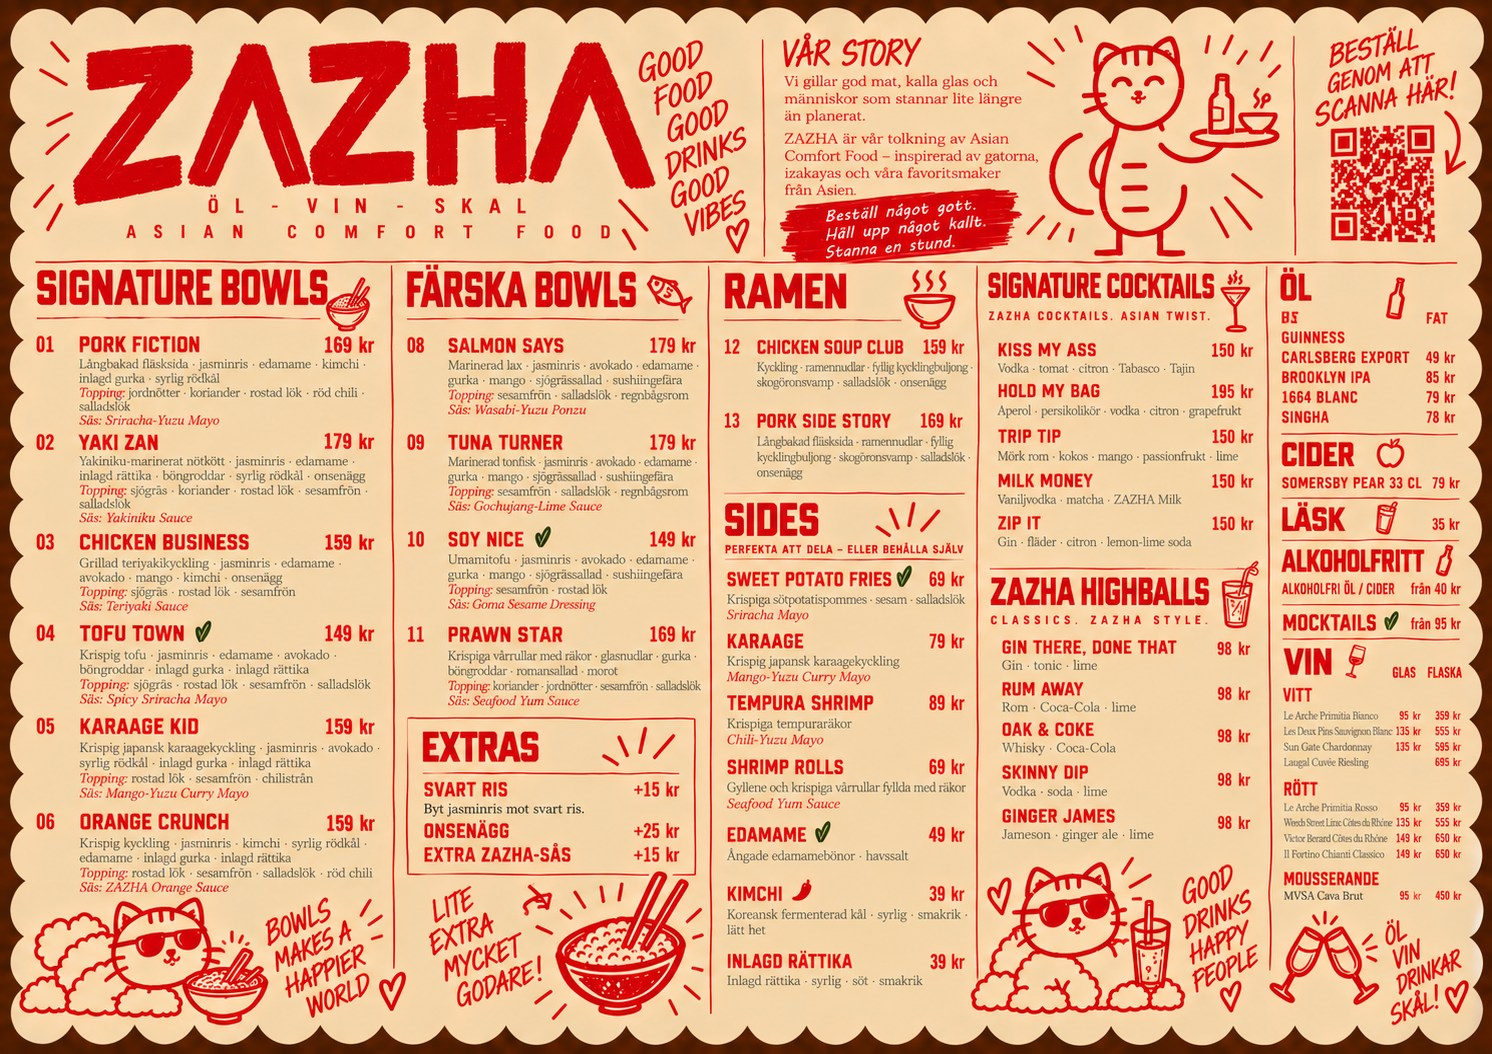
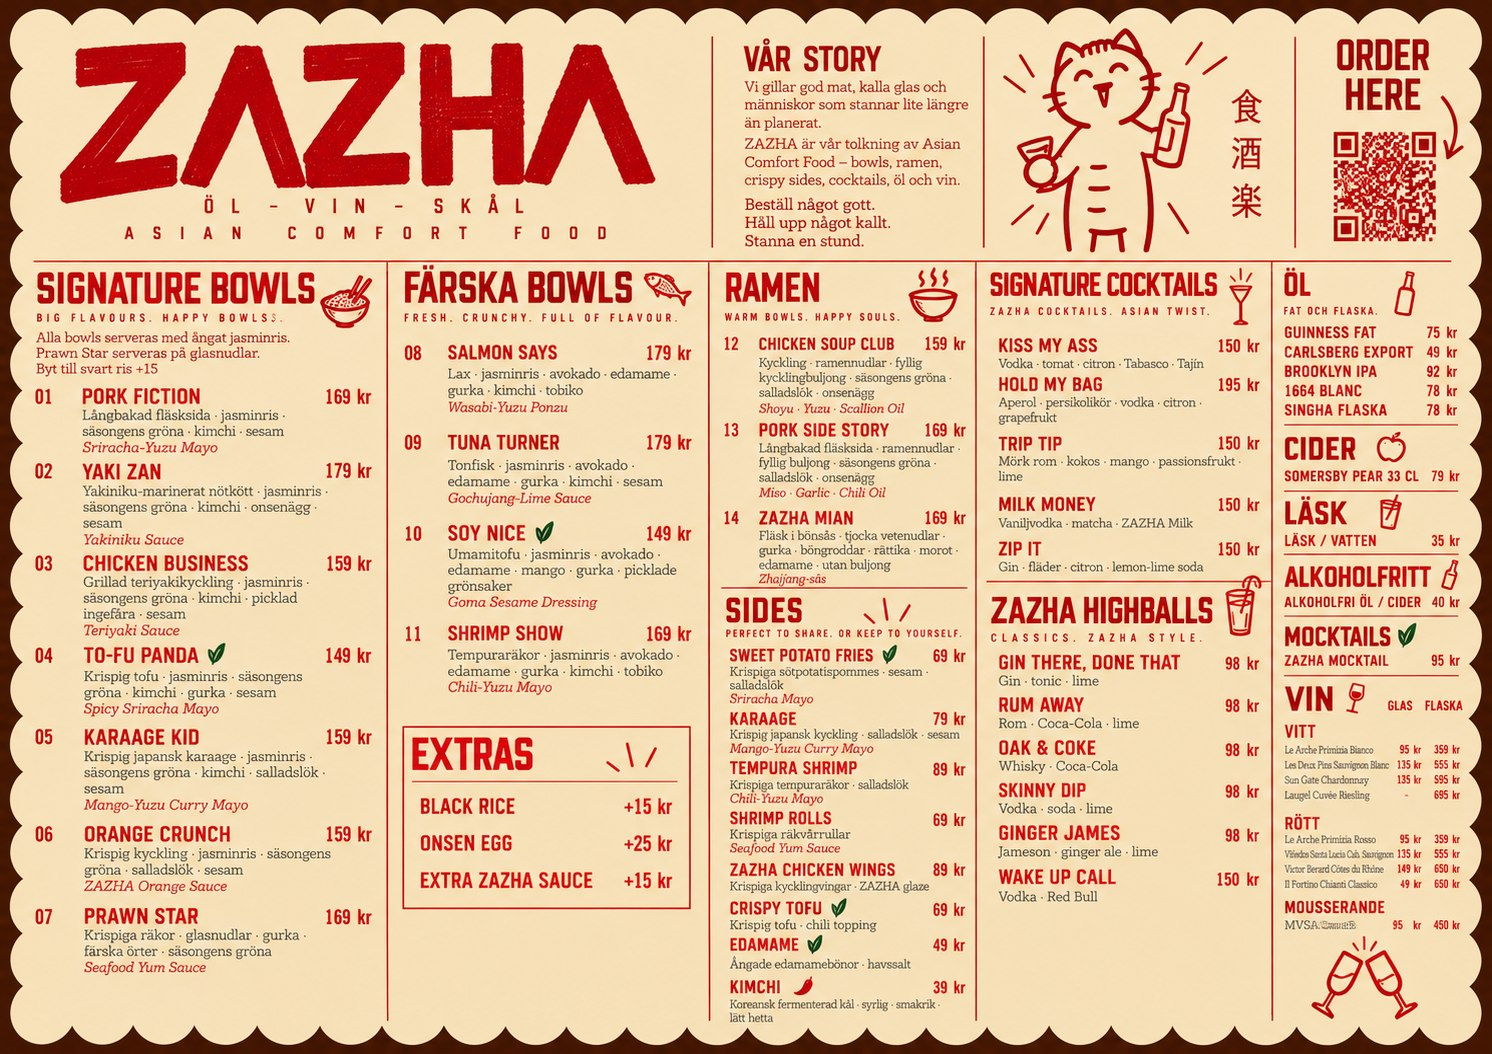
Uppdatera till den nya menyn överallt
Ny menybild (zazha-meny.jpg/webp) ersätter den gamla — syns på
startsidans menyförhandsvisning och i lightboxen på båda sidorna.

Uppdaterar den riktiga HTML-menyn på meny.html i enlighet med den nya
bilden:
- Bowls: Prawn Star flyttad till Signature Bowls (nu på glasnudlar),
  Tofu Town → To-Fu Panda, Shrimp Show ersätter gamla Prawn Star i
  Färska Bowls, numrering 01–11
- Ramen: nytt tillägg Zazha Mian (14)
- Sides: nya Zazha Chicken Wings och Crispy Tofu, Inlagd rättika borttagen
- Extras döpta om till engelska (Black Rice, Onsen Egg, Extra ZAZHA Sauce)
- Highballs: ny Wake Up Call (Vodka, Red Bull)
- Ölpriser uppdaterade (Brooklyn IPA 92 kr, 1664 Blanc 78 kr)
- Vin: Viñedos Santa Lucia Cab. Sauvignon ersätter Woods Street Line,
  Il Fortino Chianti Classico nu 49 kr (var 149 kr), "Laugal" rättat
  till "Laugel"
- Alkoholfritt/Mocktails-priser utan "från"-prefix

diff --git a/meny.html b/meny.html
@@ -573,53 +573,58 @@
       <!-- BOWLS -->
       <div class="meny-cat">
         <h3>Bowls</h3>
+        <p class="meny-item-desc" style="margin-bottom:16px;">Alla bowls serveras med ångat jasminris. Prawn Star serveras på glasnudlar. Byt till svart ris +15 kr.</p>
         <ul>
           <li class="meny-item">
-            <div class="meny-item-row"><span class="meny-item-name">Pork Fiction</span><span class="meny-item-price">169 kr</span></div>
-            <p class="meny-item-desc">Långbakad fläsksida, jasminris, edamame, kimchi, inlagd gurka, syrlig rödkål. Sås: Sriracha-Yuzu Mayo.</p>
+            <div class="meny-item-row"><span class="meny-item-name">01 · Pork Fiction</span><span class="meny-item-price">169 kr</span></div>
+            <p class="meny-item-desc">Långbakad fläsksida, jasminris, säsongens gröna, kimchi, sesam. Sriracha-Yuzu Mayo.</p>
           </li>
           <li class="meny-item">
-            <div class="meny-item-row"><span class="meny-item-name">Yaki Zan</span><span class="meny-item-price">179 kr</span></div>
-            <p class="meny-item-desc">Yakiniku-marinerat nötkött, jasminris, edamame, inlagd rättika, böngroddar, syrlig rödkål, onsenägg. Sås: Yakiniku Sauce.</p>
+            <div class="meny-item-row"><span class="meny-item-name">02 · Yaki Zan</span><span class="meny-item-price">179 kr</span></div>
+            <p class="meny-item-desc">Yakiniku-marinerat nötkött, jasminris, säsongens gröna, kimchi, onsenägg, sesam. Yakiniku Sauce.</p>
           </li>
           <li class="meny-item">
-            <div class="meny-item-row"><span class="meny-item-name">Chicken Business</span><span class="meny-item-price">159 kr</span></div>
-            <p class="meny-item-desc">Grillad teriyakikyckling, jasminris, edamame, avokado, mango, kimchi, onsenägg. Sås: Teriyaki Sauce.</p>
+            <div class="meny-item-row"><span class="meny-item-name">03 · Chicken Business</span><span class="meny-item-price">159 kr</span></div>
+            <p class="meny-item-desc">Grillad teriyakikyckling, jasminris, säsongens gröna, kimchi, picklad ingefära, sesam. Teriyaki Sauce.</p>
           </li>
           <li class="meny-item">
-            <div class="meny-item-row"><span class="meny-item-name">Tofu Town 🌱</span><span class="meny-item-price">149 kr</span></div>
-            <p class="meny-item-desc">Krispig tofu, jasminris, edamame, avokado, böngroddar, inlagd gurka, inlagd rättika. Sås: Spicy Sriracha Mayo.</p>
+            <div class="meny-item-row"><span class="meny-item-name">04 · To-Fu Panda 🌱</span><span class="meny-item-price">149 kr</span></div>
+            <p class="meny-item-desc">Krispig tofu, jasminris, säsongens gröna, kimchi, gurka, sesam. Spicy Sriracha Mayo.</p>
           </li>
           <li class="meny-item">
-            <div class="meny-item-row"><span class="meny-item-name">Karaage Kid</span><span class="meny-item-price">159 kr</span></div>
-            <p class="meny-item-desc">Krispig japansk karaagekyckling, jasminris, edamame, avokado, syrlig rödkål, inlagd gurka. Sås: Mango-Yuzu Curry Mayo.</p>
+            <div class="meny-item-row"><span class="meny-item-name">05 · Karaage Kid</span><span class="meny-item-price">159 kr</span></div>
+            <p class="meny-item-desc">Krispig japansk karaage, jasminris, säsongens gröna, kimchi, salladslök, sesam. Mango-Yuzu Curry Mayo.</p>
           </li>
           <li class="meny-item">
-            <div class="meny-item-row"><span class="meny-item-name">Orange Crunch</span><span class="meny-item-price">159 kr</span></div>
-            <p class="meny-item-desc">Krispig kyckling, jasminris, edamame, kimchi, syrlig rödkål, inlagd gurka. Sås: ZAZHA Orange Sauce.</p>
+            <div class="meny-item-row"><span class="meny-item-name">06 · Orange Crunch</span><span class="meny-item-price">159 kr</span></div>
+            <p class="meny-item-desc">Krispig kyckling, jasminris, säsongens gröna, salladslök, sesam. ZAZHA Orange Sauce.</p>
           </li>
           <li class="meny-item">
-            <div class="meny-item-row"><span class="meny-item-name">Salmon Says</span><span class="meny-item-price">179 kr</span></div>
-            <p class="meny-item-desc">Marinerad lax, jasminris, avokado, edamame, gurka, mango, sjögrässallad. Sås: Wasabi-Yuzu Ponzu.</p>
+            <div class="meny-item-row"><span class="meny-item-name">07 · Prawn Star</span><span class="meny-item-price">169 kr</span></div>
+            <p class="meny-item-desc">Krispiga räkor, glasnudlar, gurka, färska örter, säsongens gröna. Seafood Yum Sauce.</p>
           </li>
           <li class="meny-item">
-            <div class="meny-item-row"><span class="meny-item-name">Tuna Turner</span><span class="meny-item-price">179 kr</span></div>
-            <p class="meny-item-desc">Marinerad tonfisk, jasminris, avokado, edamame, gurka, mango, sjögrässallad. Sås: Gochujang-Lime Sauce.</p>
+            <div class="meny-item-row"><span class="meny-item-name">08 · Salmon Says</span><span class="meny-item-price">179 kr</span></div>
+            <p class="meny-item-desc">Lax, jasminris, avokado, edamame, gurka, kimchi, tobiko. Wasabi-Yuzu Ponzu.</p>
           </li>
           <li class="meny-item">
-            <div class="meny-item-row"><span class="meny-item-name">Soy Nice 🌱</span><span class="meny-item-price">149 kr</span></div>
-            <p class="meny-item-desc">Umamitofu, jasminris, avokado, edamame, gurka, mango, sjögrässallad. Sås: Goma Sesame Dressing.</p>
+            <div class="meny-item-row"><span class="meny-item-name">09 · Tuna Turner</span><span class="meny-item-price">179 kr</span></div>
+            <p class="meny-item-desc">Tonfisk, jasminris, avokado, edamame, gurka, kimchi, sesam. Gochujang-Lime Sauce.</p>
           </li>
           <li class="meny-item">
-            <div class="meny-item-row"><span class="meny-item-name">Prawn Star</span><span class="meny-item-price">169 kr</span></div>
-            <p class="meny-item-desc">Krispiga vårrullar med räkor, glasnudlar, gurka, böngroddar, romansallad. Sås: Seafood Yum Sauce.</p>
+            <div class="meny-item-row"><span class="meny-item-name">10 · Soy Nice 🌱</span><span class="meny-item-price">149 kr</span></div>
+            <p class="meny-item-desc">Umamitofu, jasminris, avokado, edamame, mango, gurka, picklade grönsaker. Goma Sesame Dressing.</p>
+          </li>
+          <li class="meny-item">
+            <div class="meny-item-row"><span class="meny-item-name">11 · Shrimp Show</span><span class="meny-item-price">169 kr</span></div>
+            <p class="meny-item-desc">Tempuraräkor, jasminris, avokado, edamame, gurka, kimchi, tobiko. Chili-Yuzu Mayo.</p>
           </li>
         </ul>
         <h4>Extras</h4>
         <ul>
-          <li class="meny-item"><div class="meny-item-row"><span class="meny-item-name">Svart ris</span><span class="meny-item-price">+15 kr</span></div></li>
-          <li class="meny-item"><div class="meny-item-row"><span class="meny-item-name">Onsenägg</span><span class="meny-item-price">+25 kr</span></div></li>
-          <li class="meny-item"><div class="meny-item-row"><span class="meny-item-name">Extra ZAZHA-sås</span><span class="meny-item-price">+15 kr</span></div></li>
+          <li class="meny-item"><div class="meny-item-row"><span class="meny-item-name">Black Rice</span><span class="meny-item-price">+15 kr</span></div></li>
+          <li class="meny-item"><div class="meny-item-row"><span class="meny-item-name">Onsen Egg</span><span class="meny-item-price">+25 kr</span></div></li>
+          <li class="meny-item"><div class="meny-item-row"><span class="meny-item-name">Extra ZAZHA Sauce</span><span class="meny-item-price">+15 kr</span></div></li>
         </ul>
       </div>
 
@@ -628,12 +633,16 @@
         <h3>Ramen</h3>
         <ul>
           <li class="meny-item">
-            <div class="meny-item-row"><span class="meny-item-name">Chicken Soup Club</span><span class="meny-item-price">159 kr</span></div>
-            <p class="meny-item-desc">Kyckling, ramennudlar, fyllig kycklingbuljong, skogssvamp, salladslök, onsenägg.</p>
+            <div class="meny-item-row"><span class="meny-item-name">12 · Chicken Soup Club</span><span class="meny-item-price">159 kr</span></div>
+            <p class="meny-item-desc">Kyckling, ramennudlar, fyllig kycklingbuljong, säsongens gröna, salladslök, onsenägg. Shoyu · Yuzu · Scallion Oil.</p>
           </li>
           <li class="meny-item">
-            <div class="meny-item-row"><span class="meny-item-name">Pork Side Story</span><span class="meny-item-price">169 kr</span></div>
-            <p class="meny-item-desc">Långbakad fläsksida, ramennudlar, fyllig kycklingbuljong, skogssvamp, salladslök, onsenägg.</p>
+            <div class="meny-item-row"><span class="meny-item-name">13 · Pork Side Story</span><span class="meny-item-price">169 kr</span></div>
+            <p class="meny-item-desc">Långbakad fläsksida, ramennudlar, fyllig buljong, säsongens gröna, salladslök, onsenägg. Miso · Garlic · Chili Oil.</p>
+          </li>
+          <li class="meny-item">
+            <div class="meny-item-row"><span class="meny-item-name">14 · Zazha Mian</span><span class="meny-item-price">169 kr</span></div>
+            <p class="meny-item-desc">Fläsk i bönsås, tjocka vetenudlar, gurka, böngroddar, rättika, morot, edamame, utan buljong. Zhajjang-sås.</p>
           </li>
         </ul>
       </div>
@@ -649,15 +658,23 @@
           </li>
           <li class="meny-item">
             <div class="meny-item-row"><span class="meny-item-name">Karaage</span><span class="meny-item-price">79 kr</span></div>
-            <p class="meny-item-desc">Krispig japansk karaagekyckling. Mango-Yuzu Curry Mayo.</p>
+            <p class="meny-item-desc">Krispig japansk kyckling, salladslök, sesam. Mango-Yuzu Curry Mayo.</p>
           </li>
           <li class="meny-item">
             <div class="meny-item-row"><span class="meny-item-name">Tempura Shrimp</span><span class="meny-item-price">89 kr</span></div>
-            <p class="meny-item-desc">Krispiga tempuraräkor. Chili-Yuzu Mayo.</p>
+            <p class="meny-item-desc">Krispiga tempuraräkor, salladslök. Chili-Yuzu Mayo.</p>
           </li>
           <li class="meny-item">
             <div class="meny-item-row"><span class="meny-item-name">Shrimp Rolls</span><span class="meny-item-price">69 kr</span></div>
-            <p class="meny-item-desc">Gyllene och krispiga vårrullar fyllda med räkor. Seafood Yum Sauce.</p>
+            <p class="meny-item-desc">Krispiga räkvårrullar. Seafood Yum Sauce.</p>
+          </li>
+          <li class="meny-item">
+            <div class="meny-item-row"><span class="meny-item-name">Zazha Chicken Wings</span><span class="meny-item-price">89 kr</span></div>
+            <p class="meny-item-desc">Krispiga kycklingvingar, ZAZHA glaze.</p>
+          </li>
+          <li class="meny-item">
+            <div class="meny-item-row"><span class="meny-item-name">Crispy Tofu 🌱</span><span class="meny-item-price">69 kr</span></div>
+            <p class="meny-item-desc">Krispig tofu, chili topping.</p>
           </li>
           <li class="meny-item">
             <div class="meny-item-row"><span class="meny-item-name">Edamame 🌱</span><span class="meny-item-price">49 kr</span></div>
@@ -666,10 +683,6 @@
           <li class="meny-item">
             <div class="meny-item-row"><span class="meny-item-name">Kimchi 🌶</span><span class="meny-item-price">39 kr</span></div>
             <p class="meny-item-desc">Koreansk fermenterad kål, syrlig, smakrik, lätt het.</p>
-          </li>
-          <li class="meny-item">
-            <div class="meny-item-row"><span class="meny-item-name">Inlagd rättika</span><span class="meny-item-price">39 kr</span></div>
-            <p class="meny-item-desc">Syrlig, söt, smakrik.</p>
           </li>
         </ul>
       </div>
@@ -730,6 +743,7 @@
           <li class="meny-item"><div class="meny-item-row"><span class="meny-item-name">Oak &amp; Coke</span><span class="meny-item-price">98 kr</span></div><p class="meny-item-desc">Whisky, Coca-Cola.</p></li>
           <li class="meny-item"><div class="meny-item-row"><span class="meny-item-name">Skinny Dip</span><span class="meny-item-price">98 kr</span></div><p class="meny-item-desc">Vodka, soda, lime.</p></li>
           <li class="meny-item"><div class="meny-item-row"><span class="meny-item-name">Ginger James</span><span class="meny-item-price">98 kr</span></div><p class="meny-item-desc">Jameson, ginger ale, lime.</p></li>
+          <li class="meny-item"><div class="meny-item-row"><span class="meny-item-name">Wake Up Call</span><span class="meny-item-price">150 kr</span></div><p class="meny-item-desc">Vodka, Red Bull.</p></li>
         </ul>
       </div>
 
@@ -737,11 +751,11 @@
       <div class="meny-cat">
         <h3>Öl</h3>
         <ul>
-          <li class="meny-item"><div class="meny-item-row"><span class="meny-item-name">Guinness</span><span class="meny-item-price">75 kr</span></div></li>
+          <li class="meny-item"><div class="meny-item-row"><span class="meny-item-name">Guinness Fat</span><span class="meny-item-price">75 kr</span></div></li>
           <li class="meny-item"><div class="meny-item-row"><span class="meny-item-name">Carlsberg Export</span><span class="meny-item-price">49 kr</span></div></li>
-          <li class="meny-item"><div class="meny-item-row"><span class="meny-item-name">Brooklyn IPA</span><span class="meny-item-price">85 kr</span></div></li>
-          <li class="meny-item"><div class="meny-item-row"><span class="meny-item-name">1664 Blanc</span><span class="meny-item-price">79 kr</span></div></li>
-          <li class="meny-item"><div class="meny-item-row"><span class="meny-item-name">Singha</span><span class="meny-item-price">78 kr</span></div></li>
+          <li class="meny-item"><div class="meny-item-row"><span class="meny-item-name">Brooklyn IPA</span><span class="meny-item-price">92 kr</span></div></li>
+          <li class="meny-item"><div class="meny-item-row"><span class="meny-item-name">1664 Blanc</span><span class="meny-item-price">78 kr</span></div></li>
+          <li class="meny-item"><div class="meny-item-row"><span class="meny-item-name">Singha Flaska</span><span class="meny-item-price">78 kr</span></div></li>
         </ul>
       </div>
 
@@ -753,14 +767,14 @@
           <li class="meny-item"><div class="meny-item-row"><span class="meny-item-name">Le Arche Primitia Bianco</span><span class="meny-item-price">95 / 359 kr</span></div></li>
           <li class="meny-item"><div class="meny-item-row"><span class="meny-item-name">Les Deux Pins Sauvignon Blanc</span><span class="meny-item-price">135 / 555 kr</span></div></li>
           <li class="meny-item"><div class="meny-item-row"><span class="meny-item-name">Sun Gate Chardonnay</span><span class="meny-item-price">135 / 595 kr</span></div></li>
-          <li class="meny-item"><div class="meny-item-row"><span class="meny-item-name">Laugal Cuvée Riesling</span><span class="meny-item-price">— / 695 kr</span></div></li>
+          <li class="meny-item"><div class="meny-item-row"><span class="meny-item-name">Laugel Cuvée Riesling</span><span class="meny-item-price">— / 695 kr</span></div></li>
         </ul>
         <h4>Rött — glas / flaska</h4>
         <ul>
           <li class="meny-item"><div class="meny-item-row"><span class="meny-item-name">Le Arche Primitia Rosso</span><span class="meny-item-price">95 / 359 kr</span></div></li>
-          <li class="meny-item"><div class="meny-item-row"><span class="meny-item-name">Woods Street Line Côtes du Rhône</span><span class="meny-item-price">135 / 555 kr</span></div></li>
+          <li class="meny-item"><div class="meny-item-row"><span class="meny-item-name">Viñedos Santa Lucia Cab. Sauvignon</span><span class="meny-item-price">135 / 555 kr</span></div></li>
           <li class="meny-item"><div class="meny-item-row"><span class="meny-item-name">Victor Berard Côtes du Rhône</span><span class="meny-item-price">149 / 650 kr</span></div></li>
-          <li class="meny-item"><div class="meny-item-row"><span class="meny-item-name">Il Fortino Chianti Classico</span><span class="meny-item-price">149 / 650 kr</span></div></li>
+          <li class="meny-item"><div class="meny-item-row"><span class="meny-item-name">Il Fortino Chianti Classico</span><span class="meny-item-price">49 / 650 kr</span></div></li>
         </ul>
         <h4>Mousserande — glas / flaska</h4>
         <ul>
@@ -776,9 +790,9 @@
         </ul>
         <h4>Övrigt</h4>
         <ul>
-          <li class="meny-item"><div class="meny-item-row"><span class="meny-item-name">Läsk</span><span class="meny-item-price">35 kr</span></div></li>
-          <li class="meny-item"><div class="meny-item-row"><span class="meny-item-name">Alkoholfri öl / cider</span><span class="meny-item-price">från 40 kr</span></div></li>
-          <li class="meny-item"><div class="meny-item-row"><span class="meny-item-name">Mocktails 🌱</span><span class="meny-item-price">från 95 kr</span></div></li>
+          <li class="meny-item"><div class="meny-item-row"><span class="meny-item-name">Läsk / Vatten</span><span class="meny-item-price">35 kr</span></div></li>
+          <li class="meny-item"><div class="meny-item-row"><span class="meny-item-name">Alkoholfri öl / cider</span><span class="meny-item-price">40 kr</span></div></li>
+          <li class="meny-item"><div class="meny-item-row"><span class="meny-item-name">ZAZHA Mocktail 🌱</span><span class="meny-item-price">95 kr</span></div></li>
         </ul>
       </div>
 
